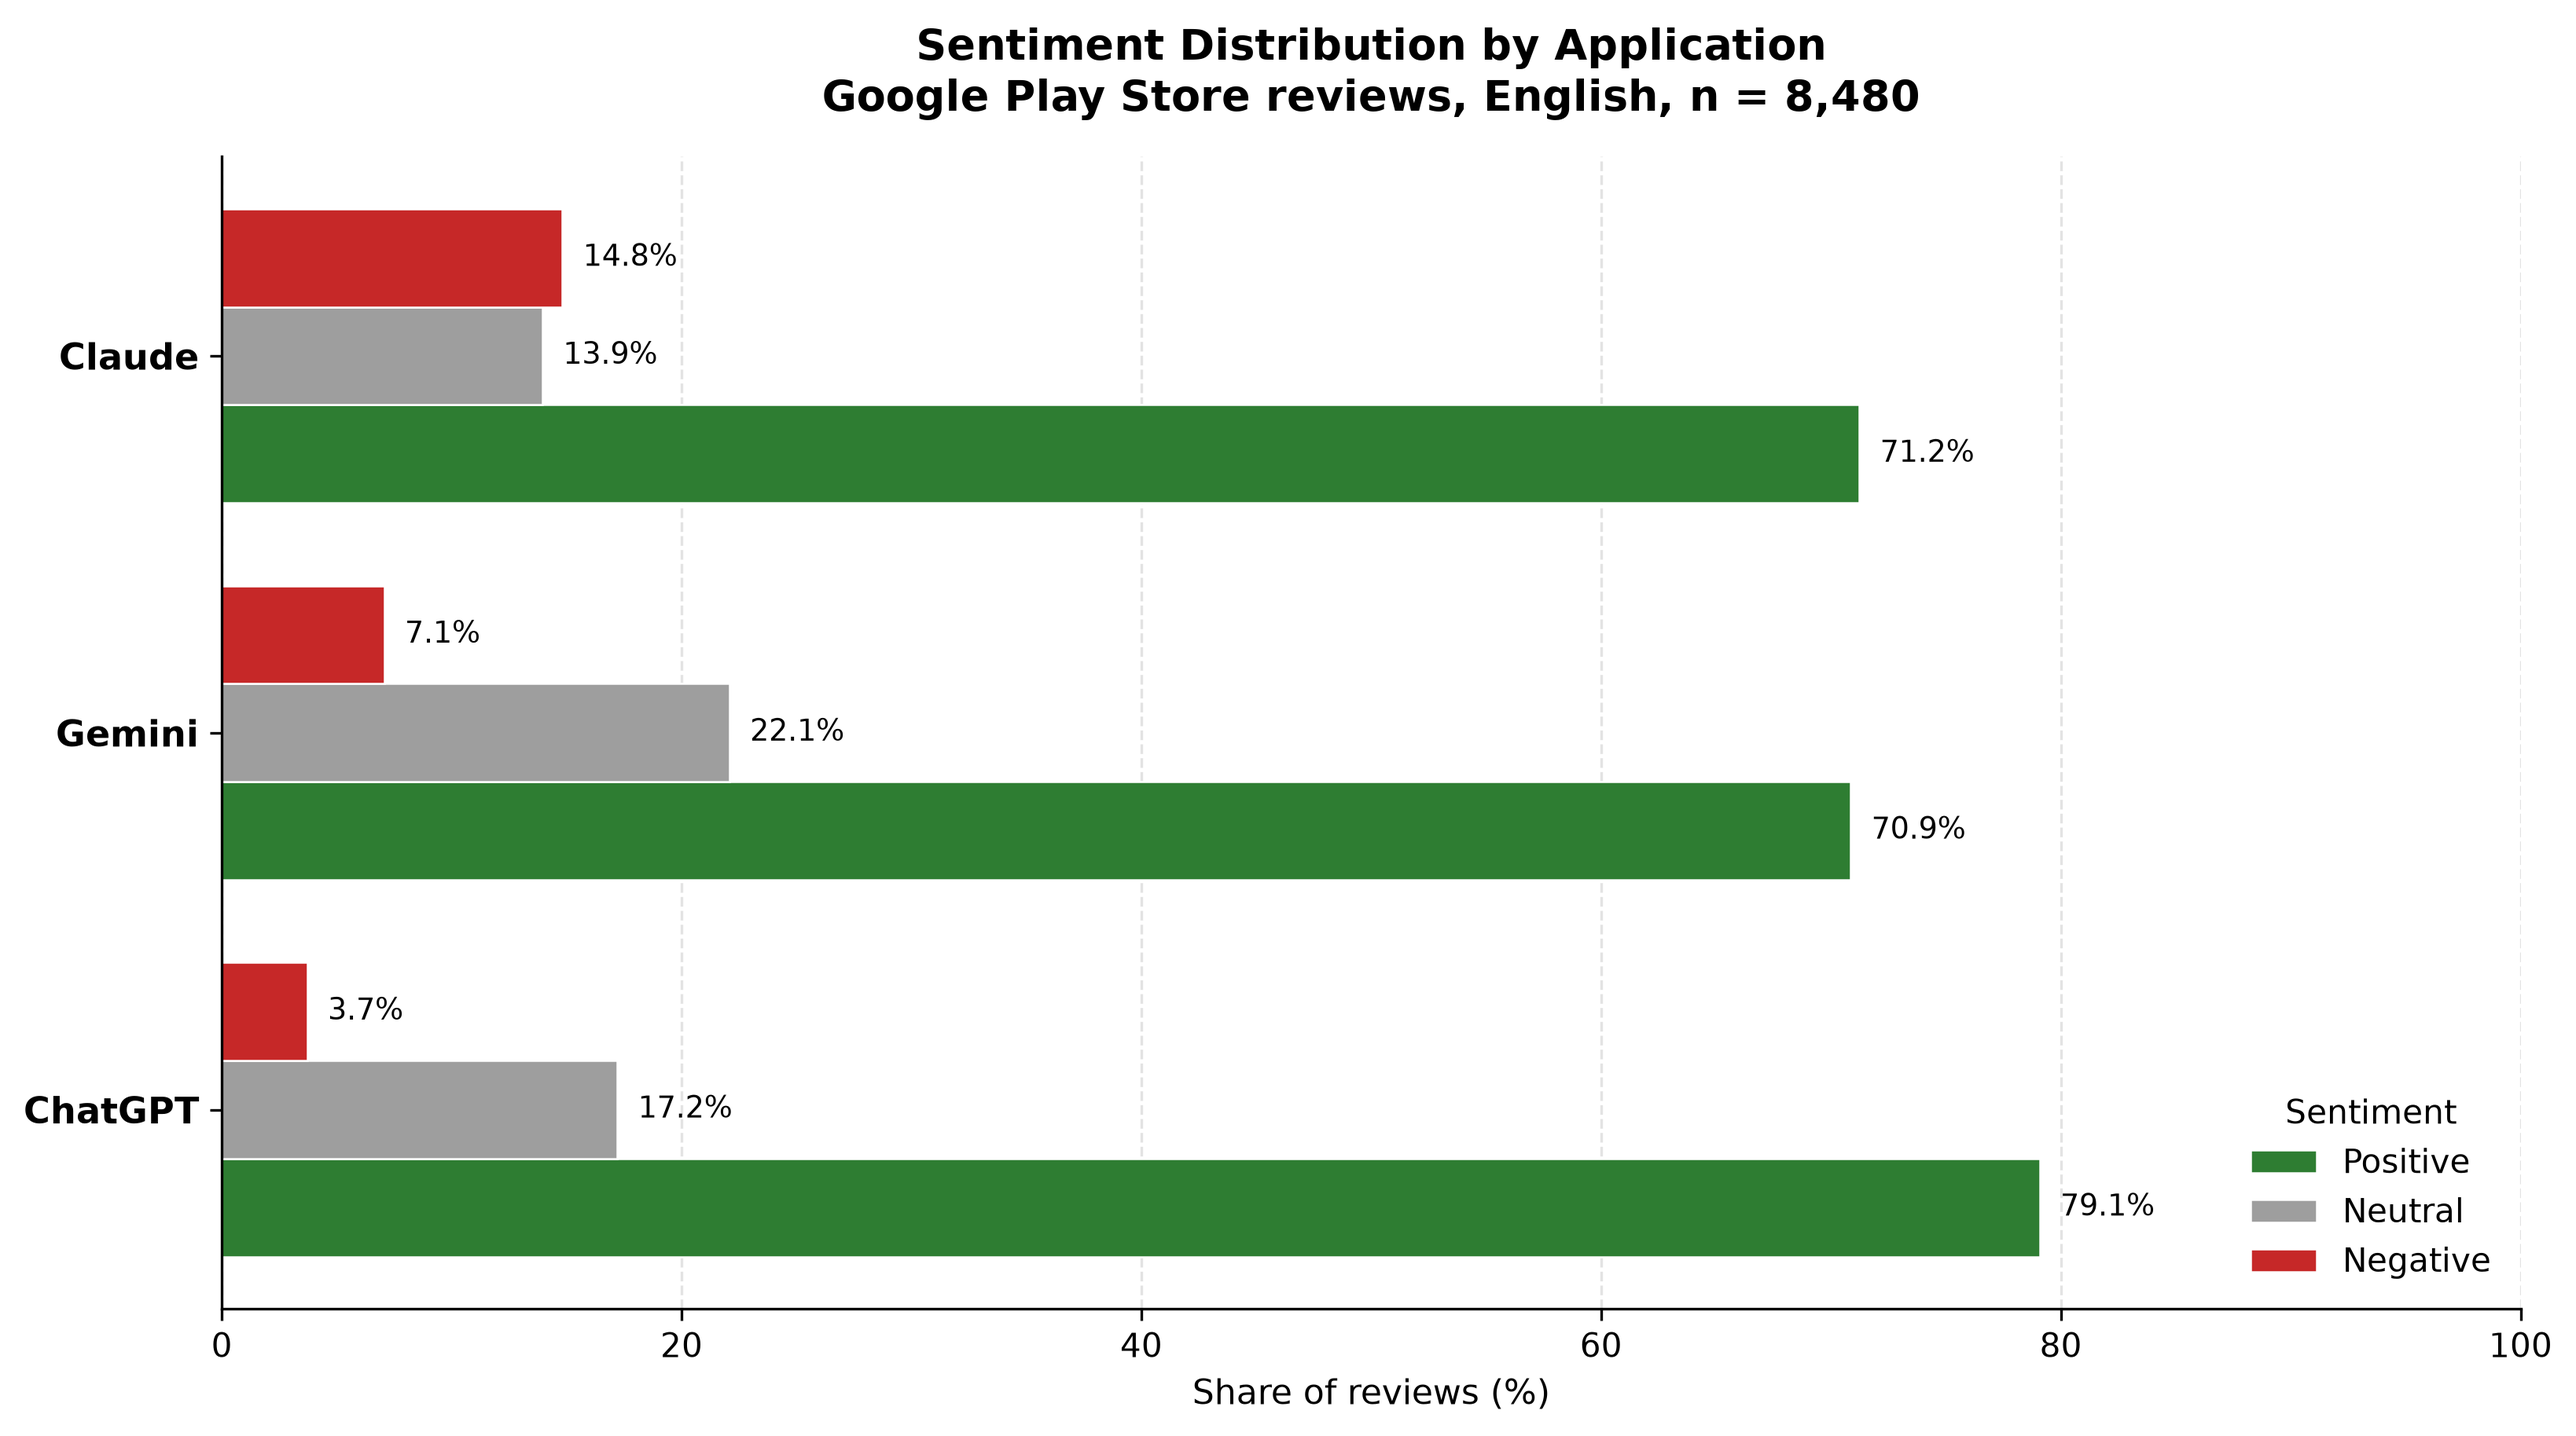
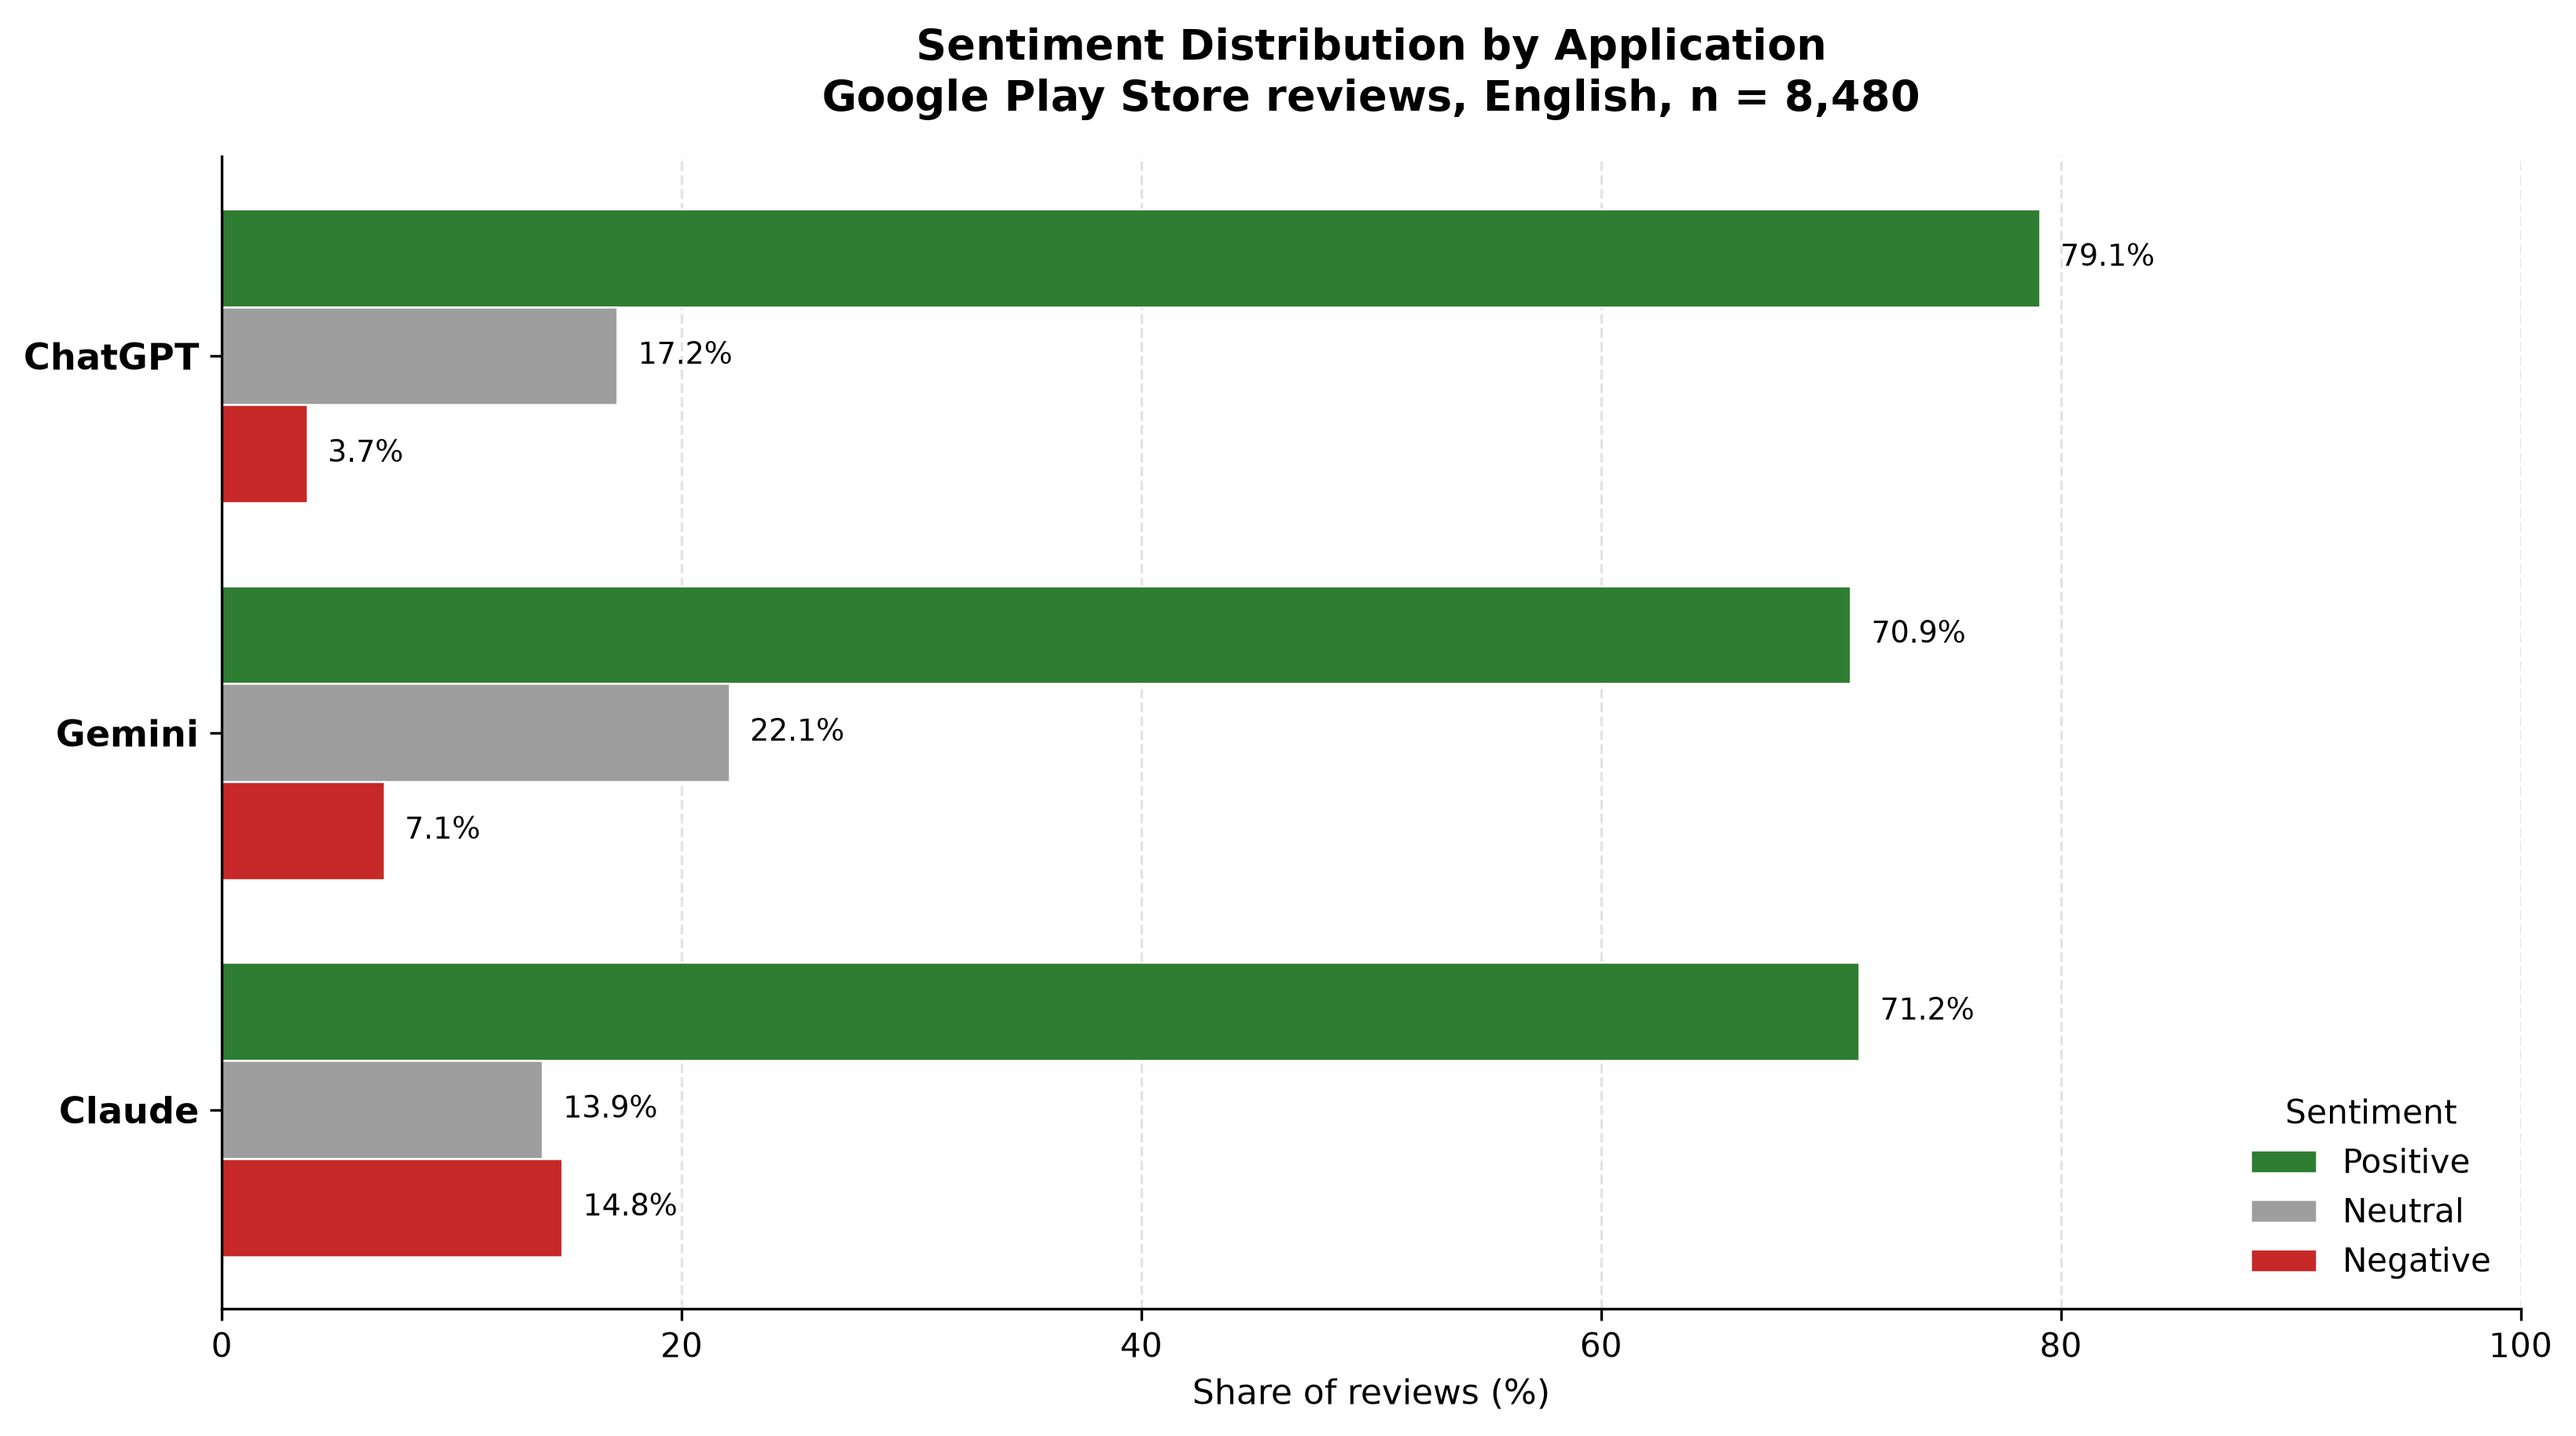
Align app order across cards, charts and word clouds
- Swap Gemini and Claude finding cards to match ChatGPT, Gemini, Claude
- Invert bar chart axis so the same order reads top to bottom
- Replace unclear methodology phrase with plain wording

diff --git a/index.html b/index.html
@@ -219,17 +219,6 @@
             </div>
 
             <div class="finding">
-              <span class="finding-tag finding-tag--neg">Claude</span>
-              <h4 class="finding-title">Polarised by access, not quality</h4>
-              <p>
-                Claude carries the largest negative share (14.8%). Its reviews are
-                dominated by <em>account</em>, <em>limit</em>, <em>verification</em> and
-                <em>paid</em>: users dispute the paywall and account controls, not the
-                answers themselves.
-              </p>
-            </div>
-
-            <div class="finding">
               <span class="finding-tag finding-tag--neu">Gemini</span>
               <h4 class="finding-title">Indifferent more than unhappy</h4>
               <p>
@@ -237,6 +226,17 @@
                 consensus (70.9%). Its negative reviews lean on <em>useless</em> and
                 <em>waste</em> &mdash; a product that leaves many users without a strong
                 opinion either way.
+              </p>
+            </div>
+
+            <div class="finding">
+              <span class="finding-tag finding-tag--neg">Claude</span>
+              <h4 class="finding-title">Polarised by access, not quality</h4>
+              <p>
+                Claude carries the largest negative share (14.8%). Its reviews are
+                dominated by <em>account</em>, <em>limit</em>, <em>verification</em> and
+                <em>paid</em>: users dispute the paywall and account controls, not the
+                answers themselves.
               </p>
             </div>
           </div>
@@ -272,9 +272,9 @@
               <p>
                 Every number and word cloud on this page comes from the
                 <strong>cleaned text</strong>. Cleaning strips punctuation, numbers and
-                emoji because they split one word into several tokens
+                emoji so that one word is not split into several entries
                 (&ldquo;good!!!&rdquo;, &ldquo;good&rdquo;, &ldquo;good&#128077;&rdquo;)
-                and add characters a word count cannot read.
+                and so that symbols are not counted as if they were words.
               </p>
               <p>
                 To check this did not change the story, the same reviews were scored

diff --git a/visualization.py b/visualization.py
@@ -131,6 +131,7 @@ def draw_bars(ax, pct: pd.DataFrame, deltas: dict = None) -> None:
 
     ax.set_yticks(list(y_base))
     ax.set_yticklabels(APP_ORDER, fontsize=11, fontweight="bold")
+    ax.invert_yaxis()  # keep the reading order (chatgpt, gemini, claude) top to bottom
     ax.set_xlabel("Share of reviews (%)", fontsize=10.5)
     ax.set_xlim(0, 100)
     ax.grid(axis="x", linestyle="--", alpha=0.35)
